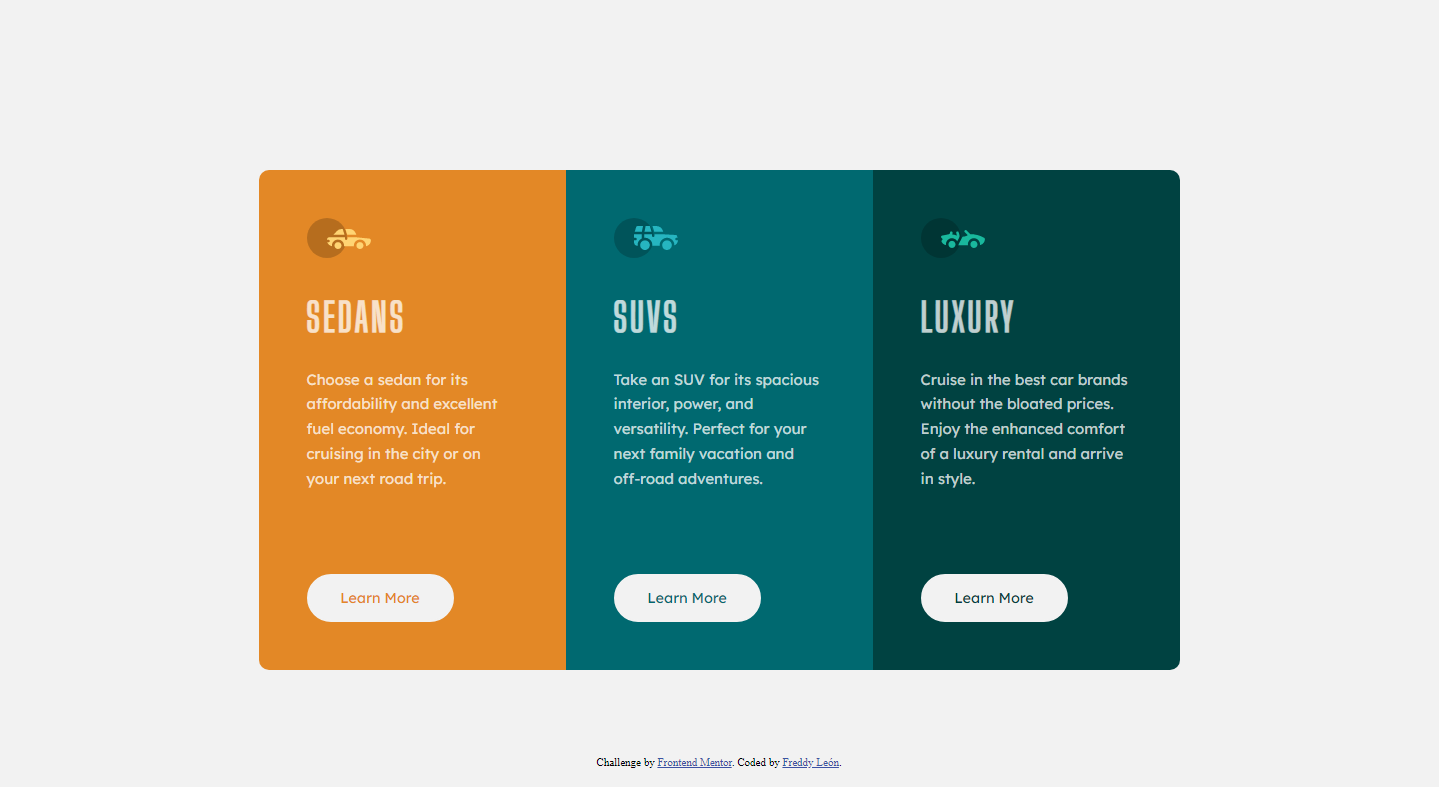
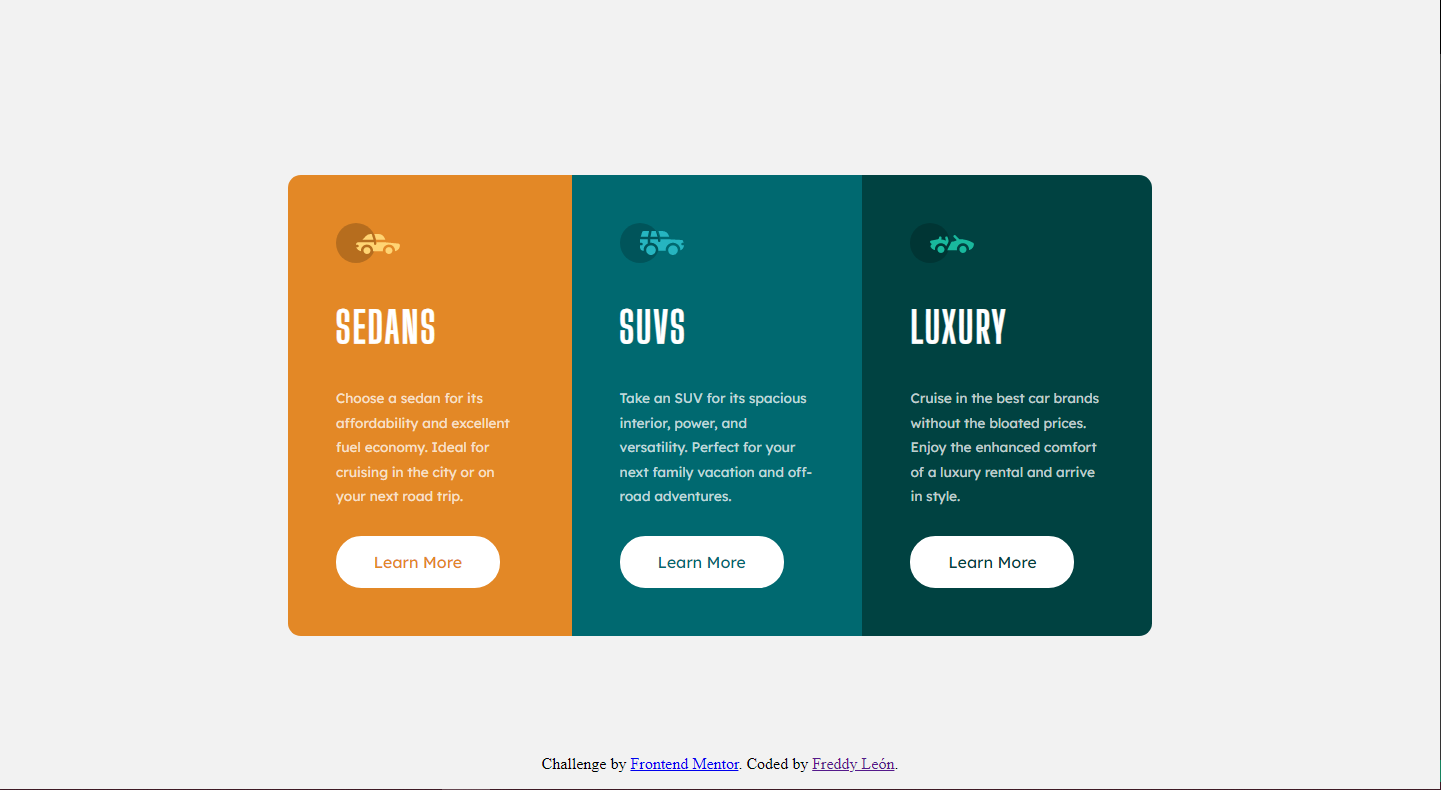
"Mobile first" implementation

diff --git a/css/styles.css b/css/styles.css
@@ -46,55 +46,52 @@ Very light gray (background, headings, buttons): hsl(0, 0%, 95%)
 }
 
 html, body{
-    min-height: 100vh;      
+    min-height: 100vh;  
+    background-color: var(--very-light-gray);       
 }
 
-body {
-    background-color: var(--very-light-gray);
-    margin: 0;
-    padding: 0;
+body{
+    margin: 0;  
+    padding: 0; 
+    
+}
+
+main{  
+    flex-grow: 1;  
+    margin: 5.5em 2em;
+    font-family: 'Lexend Deca', sans-serif;
+    font-weight: 400;
+    color: var(--white-text); 
     display: flex;
-    flex-direction: column;
-    justify-content: center;
     align-items: center;
-    overflow: hidden;
-}
-
-main{    
-    flex-grow: 1;
-    position: relative;
-    display: grid;
-    place-items: center;
-    margin-top: 104px;
-}
-
-.card-container{    
-    display: flex;    
     justify-content: center;
-    align-items: center;    
-    border-radius: 10px;
+}
+
+.card-container{
+    display: block;
+    border-radius: 0.8em;
     overflow: hidden;
+    max-width: 18em;
 }
-
-@media(max-width: 958px){
-    body{
-        overflow: scroll;
-    }
-    .card-container{
-        flex-direction: column;        
-    }
-}
-
-
 
 .card{
     box-sizing: border-box;
-    align-self: center;
-    justify-self: center;
-    position: relative;   
-    width: 307px;
-    height: 500px;
-    padding: 48px;   
+    padding: 3em;   
+}
+
+.card-title{
+    margin-top: 0.5em 0 0.5em 0;    
+    font-family: 'Big Shoulders Display', cursive;
+    font-size: 2.6em;
+    font-weight: 700;
+    color: white;
+    letter-spacing: 0.06em;
+}
+
+.card-paragraph{
+    line-height: 1.8em;  
+    font-size: 0.85em;
+    margin-bottom: 2em;
 }
 
 .sedans-card{
@@ -109,50 +106,28 @@ main{
     background-color: var(--very-dark-cyan);
 }
 
-.card-title{   
-    font-family: 'Big Shoulders Display', cursive;
-    font-weight: 700;
-    font-size: 2.44em;    
-    letter-spacing: 2.3pt;
-    color: var(--white-text);
-    margin: 32px 0px 28px  0px;
+.card-button{
+    display: flex;
+    justify-content: center;
+    align-items: center;
+    background-color: white;
+    border: 0.16em solid white;
+    border-radius: 1.58em;
+    margin: 0;
+    height: 3em;
+    width: 10em;    
+    text-align: center;
+    text-decoration: none;     
+    position: relative;    
 }
 
-.card-paragraph{
-    font-family: 'Lexend Deca', sans-serif;
-    font-weight: 400;
-    font-size: 0.934em;
-    color: var(--white-text);
-    line-height: 1.66em;
+.card-cta :hover{
+    background-color:  rgba(0, 0, 0, 0);
+    color: white;
 }
 
-.card-cta{
-    position: absolute;
-    bottom: 48px;
-    margin-left: auto;
-    margin-right: auto;
-}
-
-.card-button{  
-    border: 2px solid var(--very-light-gray);
-    background-color: var(--very-light-gray);
-    height: 48px;
-    width: 147px;
-    border-radius: 24px;
-    font-family: 'Lexend Deca', sans-serif;
-    font-weight: 400;
-    font-size: 0.9em;
-    cursor: pointer;
-}
-
-.card-button:hover{
-    color: var(--very-light-gray);
-    background-color: rgba(255, 255, 255, 0);
-
-}
-
-.card-button-sedans{
-    color: var(--b-orange);
+.card-button-sedans{    
+    color: var(--b-orange);    
 }
 
 .card-button-suvs{
@@ -163,13 +138,32 @@ main{
     color: var(--very-dark-cyan);
 }
 
-.attribution { 
+.attribution{
     flex-grow: 0;
-    font-size: 11px; 
-    text-align: center;     
-    margin: 20px;
+    margin: 1em 2em;
+    text-align: center;
+    bottom: 2em;
 }
 
-.attribution a { 
-    color: hsl(228, 45%, 44%); 
+@media (min-width: 1440px){
+    html, body{
+        overflow: hidden;
+    } 
+    body{
+        display: flex; 
+        flex-direction: column;   
+    }
+    
+    main{
+        margin-top: 10em;
+    } 
+    .card-container{
+        display: flex;
+        align-items: center;
+        justify-content: center;  
+        min-width: 20em;      
+    }    
+    .card-container{
+        min-width: 54em;
+    }
 }

diff --git a/index.html b/index.html
@@ -20,8 +20,8 @@
 <body>
   
   <main>
-    <section class="card-container">
-      <article class="card sedans-card">
+    <div class="card-container">
+      <div class="card sedans-card">
         <div>
           <img
             src="assets/images/icon-sedans.svg"
@@ -29,19 +29,20 @@
             class="sedans-icon"
           />
         </div>
-        <section class="card-body">
-          <p class="card-title">SEDANS</p>
+        <div class="card-body">
+          <h2 class="card-title">SEDANS</h2>
           <p class="card-paragraph">
             Choose a sedan for its affordability and excellent fuel economy. Ideal for cruising in the city 
             or on your next road trip.
           </p>
-        </section>
-        <section class="card-cta">
-          <button class="card-button card-button-sedans">Learn More</button>
-        </section>
-      </article>
+        </div>
+        <div class="card-cta">
+          <a href="#" class="card-button card-button-sedans">
+            <p>Learn More</p></a>
+          </div>
+      </div>
         
-      <article class="card suvs-card">
+      <div class="card suvs-card">
         <div>
           <img
             src="assets/images/icon-suvs.svg"
@@ -49,19 +50,20 @@
             class="suvs-icon"
           />
         </div>
-        <section class="card-body">
-          <p class="card-title">SUVS</p>
+        <div class="card-body">
+          <h2 class="card-title">SUVS</h2>
           <p class="card-paragraph">
             Take an SUV for its spacious interior, power, and versatility. Perfect for your next family vacation 
             and off-road adventures.
           </p>
-        </section>
-        <section class="card-cta">
-          <button class="card-button card-button-suvs">Learn More</button>
-        </section>
-      </article>
+        </div>
+        <div class="card-cta">
+          <a href="#" class="card-button card-button-suvs">
+            <p>Learn More</p></a>
+        </div>
+      </div>
         
-      <article class="card luxury-card">
+      <div class="card luxury-card">
         <div>
           <img
             src="assets/images/icon-luxury.svg"
@@ -69,18 +71,19 @@
             class="luxury-icon"
           />
         </div>
-        <section class="card-body">
-          <p class="card-title">LUXURY</p>
+        <div class="card-body">
+          <h2 class="card-title">LUXURY</h2>
           <p class="card-paragraph">
             Cruise in the best car brands without the bloated prices. Enjoy the enhanced comfort of a luxury 
             rental and arrive in style.
           </p>
-        </section>
-        <section class="card-cta">
-          <button type="button" class="card-button card-button-luxury">Learn More</button>
-        </section>
-      </article>
-    </section>
+        </div>
+        <div class="card-cta">
+          <a href="#" class="card-button card-button-luxury">
+            <p>Learn More</p></a>
+        </div>
+      </div>
+    </div>
   </main>
   
   <footer class="attribution">

diff --git a/README.md b/README.md
@@ -33,9 +33,9 @@ Hi! This is my solution to the [3-column preview card component challenge on Fro
 ### Built with
 
 - Semantic HTML5 markup
+- Mobile first
 - CSS custom properties
 - Flexbox
-- CSS Grid
 - Media query
 
 ### What I learned
@@ -48,15 +48,56 @@ Box-sizing - Allows you to include the padding and border size in the overall si
 }
 ```
 
+letter-spacing - Allows you to change the space between characters.
+
+```css
+.card-title{    
+    letter-spacing: 0.06em;
+}
+```
+
+line-height - Allows you to change the space between text lines.
+
+```css
+.card-paragraph{
+    line-height: 1.8em;  
+}
+```
+
+flex-grow - Allows you to set how much a flex element can grow relative to other flex elements in the same box.
+
+```css
+main{  
+    flex-grow: 1;
+}
+.attribution{
+    flex-grow: 0;   
+}
+```
+
 Media query - Allow changing the behavior or properties of the element according to the established condition.
 
 ```css
-@media(max-width: 958px){
+@media (min-width: 1440px){
+    html, body{
+        overflow: hidden;
+    } 
     body{
-        overflow: scroll;
+        display: flex; 
+        flex-direction: column;   
     }
+    
+    main{
+        margin-top: 10em;
+    } 
     .card-container{
-        flex-direction: column;        
+        display: flex;
+        align-items: center;
+        justify-content: center;  
+        min-width: 20em;      
+    }    
+    .card-container{
+        min-width: 54em;
     }
 }
 ```
